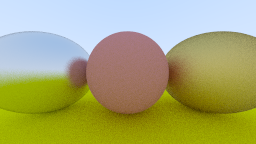
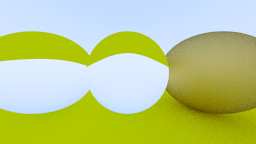
Added basic refraction

diff --git a/PathTracer/material.h b/PathTracer/material.h
@@ -47,3 +47,22 @@ class metal : public material {
 		color albedo;
 		double roughness;
 };
+
+class dielectric : public material {
+	public:
+		dielectric(double index_of_refraction) : ior(index_of_refraction) {}
+
+		virtual bool scatter(const ray& r_in, const hit_record& rec, color& attenuation, ray& r_out) const override {
+			attenuation = color(1.0, 1.0, 1.0);
+			double ior_ratio = rec.front_face ? (1.0 / ior) : ior;
+
+			vec3 unit_direction = unit_vector(r_in.direction());
+			vec3 refracted = refract(unit_direction, rec.normal, ior_ratio);
+
+			r_out = ray(rec.p, refracted);
+			return true;
+		}
+
+	public:
+		double ior;
+};

diff --git a/PathTracer/PathTracer.cpp b/PathTracer/PathTracer.cpp
@@ -54,8 +54,8 @@ int main() {
 	hittable_list world;
 
 	auto material_ground = make_shared<lambertian>(color(0.8, 0.8, 0.0));
-	auto material_center = make_shared<lambertian>(color(0.7, 0.3, 0.3));
-	auto material_left = make_shared<metal>(color(0.8, 0.8, 0.8), 0.3);
+	auto material_center = make_shared<dielectric>(1.5);
+	auto material_left = make_shared<dielectric>(1.5);
 	auto material_right = make_shared<metal>(color(0.8, 0.6, 0.2), 1.0);
 
 	world.add(make_shared<sphere>(point3(0.0, -100.5, -1.0), 100.0, material_ground));

diff --git a/PathTracer/vec3.h b/PathTracer/vec3.h
@@ -131,3 +131,10 @@ inline vec3 random_unit_vector() {
 inline vec3 reflect(const vec3& v, const vec3& n) {
 	return v - 2 * dot(v, n) * n;
 }
+
+inline vec3 refract(const vec3& r_in, const vec3& n, double ior_ratio) {
+	double cos_theta = fmin(dot(-r_in, n), 1.0);
+	vec3 r_out_perp = ior_ratio * (r_in + cos_theta * n);
+	vec3 r_out_para = -sqrt(fabs(1.0 - r_out_perp.length_squared())) * n;
+	return r_out_perp + r_out_para;
+}
